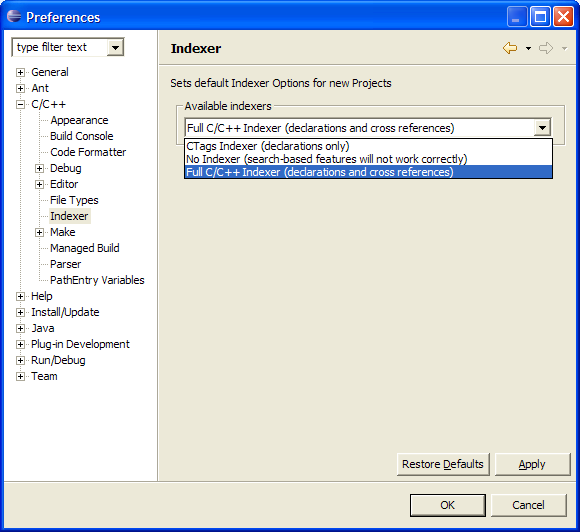
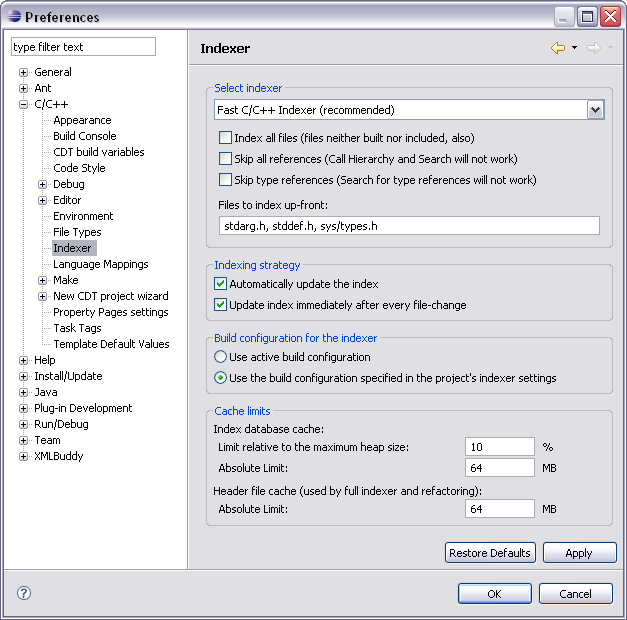
Bug 192932 - Patch for Frank - docs.

diff --git a/all/org.eclipse.cdt.doc.user/reference/cdt_u_indexer_preference.html b/all/org.eclipse.cdt.doc.user/reference/cdt_u_indexer_preference.html
@@ -3,16 +3,74 @@
 <head>
   <meta http-equiv="Content-Language" content="en-us">
   <meta http-equiv="Content-Type" content="text/html; charset=UTF-8">
-  <title>Indexer Preference Page</title>
+  <title>Indexer Preference page</title>
   <link rel="stylesheet" type="text/css" href="../help.css">
 </head>
 <body>
-<h1>Indexer Preference Page</h1>
+<h1>Indexer Preference page</h1>
+<p>Use the <b>Indexer</b> preference page to select the indexer used by default for new projects and configure its behavior.</p>
 <p> <img src="../images/indexer_preference_page.PNG"
- alt="Indexer Preferences Window" style="width: 580px; height: 532px;"><br>
+ alt="Indexer Preferences Window" ><br>
 </p>
-<p>The indexer preference page allows you to select which indexer is to
-be used as a default for new projects.</p>
+<table width="600" cellpadding="5" cellspacing="0" border="1" >
+  <caption>
+  <b>Indexer  Options</b>
+  </caption>
+  <colgroup>
+  <col width="30%" valign="top" >
+  <col width="70%" valign="top" >
+  </colgroup>
+  <tbody>
+    <tr>
+      <td width="241" valign="top"><b>Select Indexer </b></td>
+      <td width="333" valign="top">Select the indexer to use by default for all new projects. </td>
+    </tr>
+    <tr>
+      <td valign="top"><b>Index all files (files neither built nor included, also) </b></td>
+      <td valign="top">Activate this checkbox to index all files </td>
+    </tr>
+    <tr>
+      <td valign="top"><b>Skip all references (Call Hierarchy and Search will not work) </b></td>
+      <td valign="top">Activate this checkbox to not index references in indexed files. This prevents some portions of CDT from working, like Call Hierarchy and Search. </td>
+    </tr>
+    <tr>
+      <td valign="top"><b>Skip type references (Search fort type references will not work) </b></td>
+      <td valign="top">Activate this checkbox to not index type references in indexed files. This prevents some portions of CDT from working, Search. </td>
+    </tr>
+    <tr>
+      <td valign="top"><b>Files to index up-front </b></td>
+      <td valign="top">Type a comma separated list of files that should always be indexed immediately. </td>
+    </tr>
+    <tr>
+      <td valign="top"><b>Automatically update the index </b></td>
+      <td valign="top">Activate this checkbox to have the index automatically update as it requires. </td>
+    </tr>
+    <tr>
+      <td valign="top"><b>Update index immediately after every file change </b></td>
+      <td valign="top">Activate this checkbox to force an index update whenever a file is saved. </td>
+    </tr>
+    <tr>
+      <td valign="top"><b>Use active build configuration </b></td>
+      <td valign="top">Activate this checkbox to always use the active build configuration indexer settings to build the index. </td>
+    </tr>
+    <tr>
+      <td valign="top"><b>Use the build configuration specified in the project's indexer settings </b></td>
+      <td valign="top">Activate this checkbox to always use the project's indexer settings to build the index. </td>
+    </tr>
+    <tr>
+      <td valign="top"><b>Limit relative to the maximum heap size </b></td>
+      <td valign="top">Specify the relative size limit the index can reach based on the maximum heap size. </td>
+    </tr>
+    <tr>
+      <td valign="top"><b>Index database cache: Absolute limit </b></td>
+      <td valign="top">Specify the  maximum size the index database cache is limited to. </td>
+    </tr>
+    <tr>
+      <td valign="top"><b>Header file cache: Absolute limit </b></td>
+      <td valign="top">Specify the  maximum size the header file cache is limited to. </td>
+    </tr>
+  </tbody>
+</table>
 <p><img style="border: 0px solid ; width: 143px; height: 21px;"
  src="../images/ngconcepts.gif" alt="Related concepts"> <br>
 <a href="../concepts/cdt_o_code_entry.htm">Coding aids</a><br>
@@ -29,7 +87,8 @@ editor</a></p>
 <a href="cdt_u_m_search.htm">Search action</a><br>
 <a href="cdt_u_search_view.htm">Search view</a><br>
 </p>
-<p><img src="../images/ng00_05a.gif" alt="Copyright"
+<p><img src="../images/nokia2007Copyright.png" width="255" height="14"><br>
+  <img src="../images/ng00_05a.gif" alt="Copyright"
  style="width: 324px; height: 14px;"><br>
 </p>
 <p>

diff --git a/all/org.eclipse.cdt.doc.user/reference/cdt_u_language_mapping_pref.htm b/all/org.eclipse.cdt.doc.user/reference/cdt_u_language_mapping_pref.htm
@@ -1,0 +1,50 @@
+<!DOCTYPE HTML PUBLIC "-//W3C//DTD HTML 4.0//EN">
+<html lang="en">
+
+<head>
+<meta http-equiv="Content-Language" content="en-us">
+<meta http-equiv="Content-Type" content="text/html; charset=UTF-8">
+<title>Language Mappings preferences</title>
+<link rel="stylesheet" type="text/css" href="../help.css">
+</head>
+
+<body>
+
+<h1>Language Mappings  preferences</h1>
+
+<p>Customize the use of C/C++ language associations in the <b>Language Mappings</b> preference panel for the workspace. </p>
+<p><img src="../images/view_language_mappings_prefs.png" width="627" height="544"></p>
+
+<table width="600" cellpadding="5" cellspacing="0" border="1" >
+	<caption>
+	<b>Language Mappings  Options</b>
+	</caption>
+	<colgroup>
+		<col width="30%" valign="top" >
+		<col width="70%" valign="top" >
+	</colgroup>
+	<tbody>
+		<tr>
+			<td width="171" valign="top"><b>Content Type </b></td>
+			<td width="503" valign="top">The content type associated with the language. </td>
+		</tr>
+		<tr>
+			<td valign="top"><b>Language</b></td>
+			<td valign="top">The language associated with the content type. </td>
+		</tr>
+		<tr>
+			<td valign="top"><b>Add</b></td>
+			<td valign="top"><p>Click to show the <b>Add Mapping</b> dialog where you define the content type and language associated with it. </p>
+		    <p align="center"><img src="../images/view_add_mapping.png" width="216" height="134"></p></td>
+		</tr>
+		<tr>
+		  <td valign="top"><b>Remove</b></td>
+		  <td valign="top">Click to remove the selected langauge mapping. </td>
+	  </tr>
+	</tbody>
+</table>
+
+<p><img src="../images/nokia2007Copyright.png" width="255" height="14"></p>
+</body>
+
+</html>

diff --git a/all/org.eclipse.cdt.doc.user/reference/cdt_u_appearance_pref.htm b/all/org.eclipse.cdt.doc.user/reference/cdt_u_appearance_pref.htm
@@ -1,0 +1,49 @@
+<!DOCTYPE HTML PUBLIC "-//W3C//DTD HTML 4.0//EN">
+<html lang="en">
+
+<head>
+<meta http-equiv="Content-Language" content="en-us">
+<meta http-equiv="Content-Type" content="text/html; charset=UTF-8">
+<title>Appearance preferences</title>
+<link rel="stylesheet" type="text/css" href="../help.css">
+</head>
+
+<body>
+
+<h1>Appearance preferences</h1>
+
+<p>Customize the appearance of C elements in viewers using the <b>Appearance</b> preference panel.</p>
+<p><img src="../images/view_appearance_prefs.png" width="627" height="524"></p>
+
+<table width="700px" cellpadding="5" cellspacing="0" border="1" >
+	<caption>
+	<b>Appearance Options</b>
+	</caption>
+	<colgroup>
+		<col width="30%" valign="top" >
+		<col width="70%" valign="top" >
+	</colgroup>
+	<tbody>
+		<tr>
+			<td width="241" valign="top"><b>Show translation unit numbers </b></td>
+			<td width="433" valign="top">Activate this checkbox to show translation unit numbers. </td>
+		</tr>
+		<tr>
+			<td valign="top"><b>Group the includes in the C/C++ projects view </b></td>
+			<td valign="top">Activate this checkbox to group include files in the C/C++ project view. </td>
+		</tr>
+		<tr>
+			<td valign="top"><b>Group the includes in the outliner </b></td>
+			<td valign="top">Activate this checkbox to group include files in outline views. </td>
+		</tr>
+		<tr>
+			<td valign="top"><b>Group the namespaces in the outliner </b></td>
+			<td valign="top">Activate this checkbox to group files by namespaces in outline views. </td>
+		</tr>
+	</tbody>
+</table>
+
+<p><img src="../images/nokia2007Copyright.png" width="255" height="14"></p>
+</body>
+
+</html>
